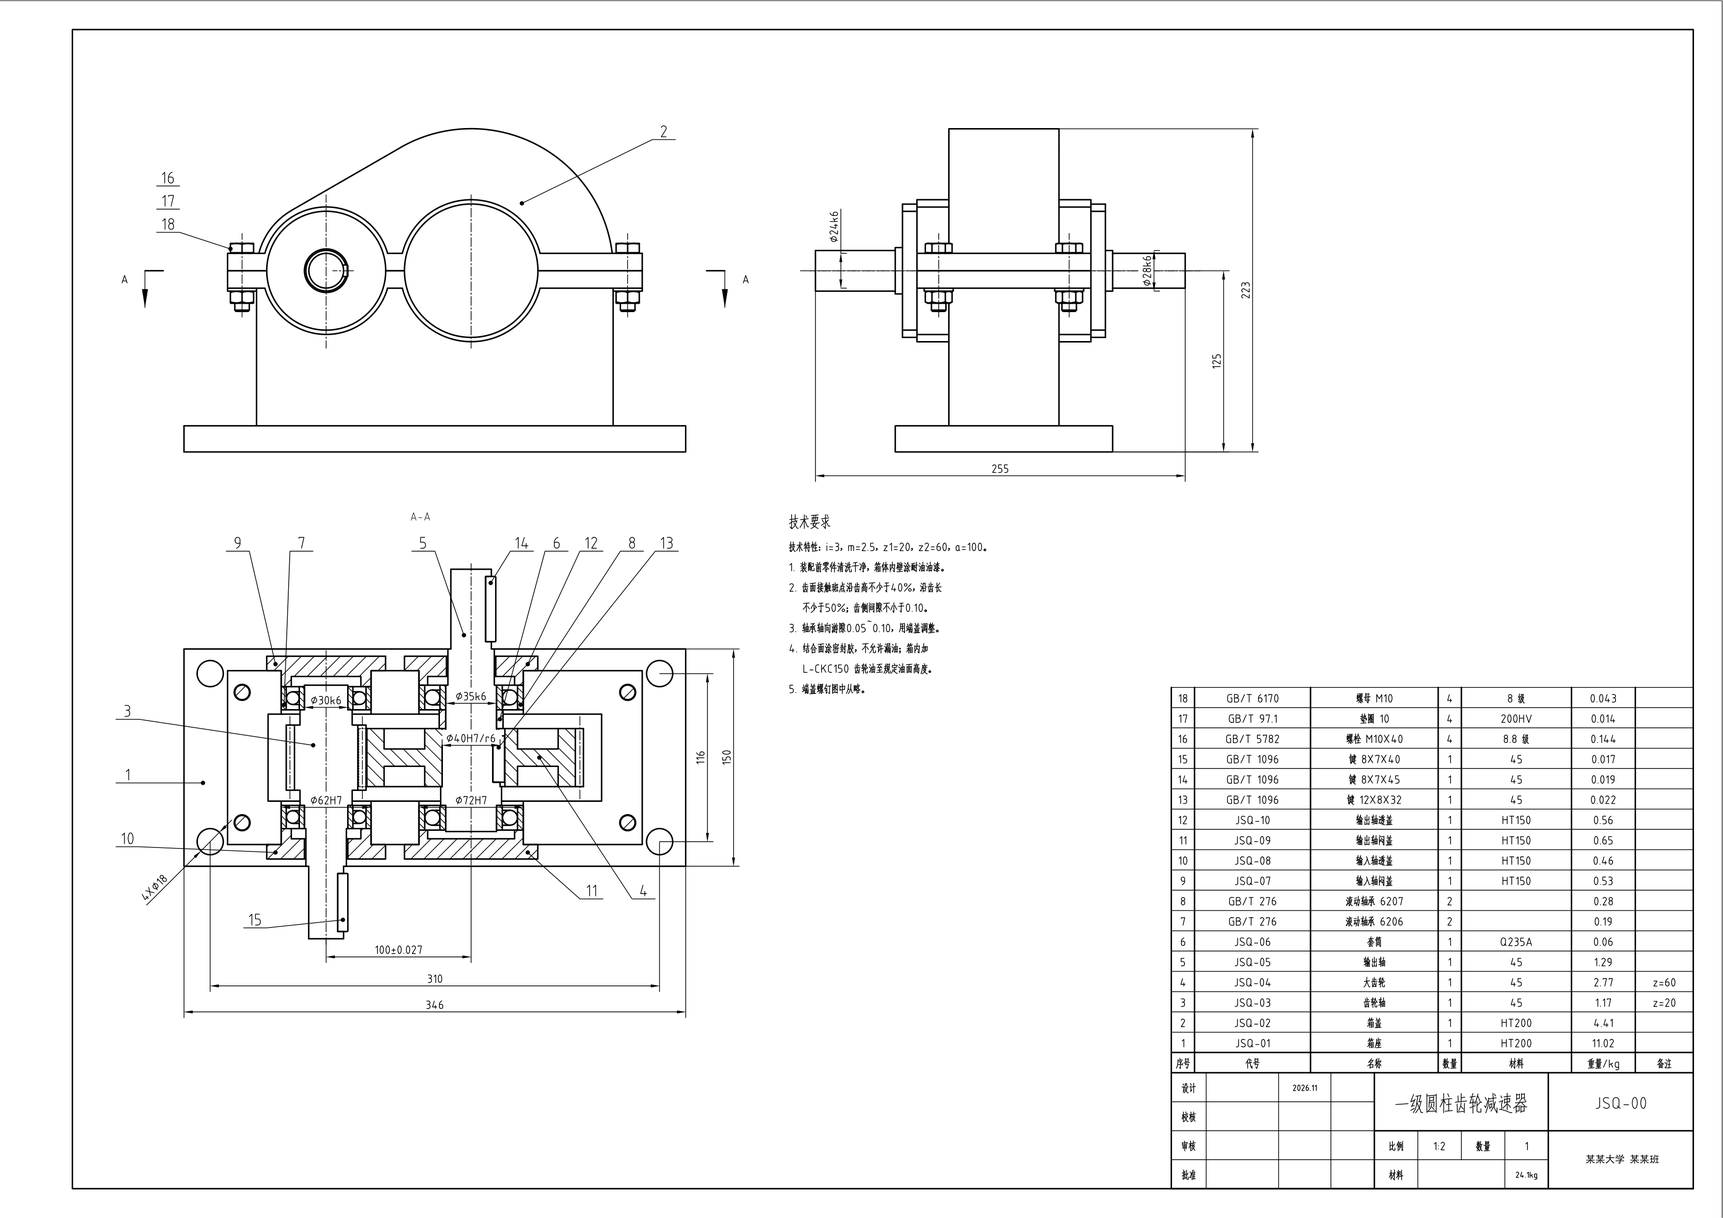
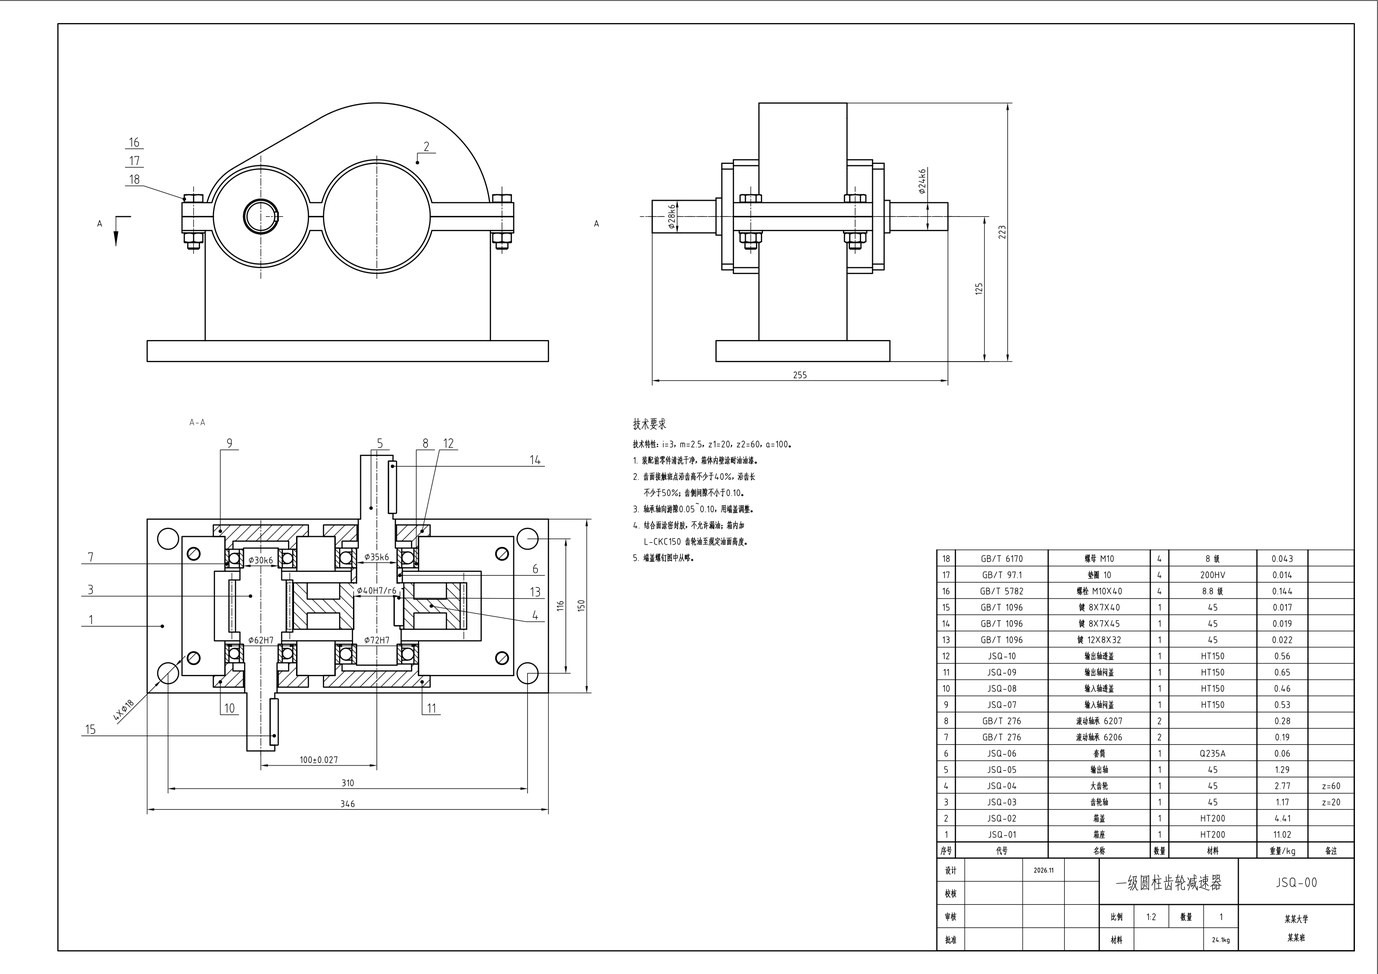
重写 README，成果图全部重新生成
所有图纸由范例脚本重跑出图；新增封面（三维模型 → 国标装配图）、三维模型一览，
以及公差查表与符号自动放置、装配图剖面线错开、规定画法、国标标准件、
自动检查五张新功能展示图。README 改为流程图 + 新能力 + 成果图 + 能力清单的结构。
驱动轮组件范例加上 stagger_hatches()；修正几个范例里输出目录写成元组的问题。

diff --git a/examples/wheel_assembly.py b/examples/wheel_assembly.py
@@ -6,7 +6,7 @@
 import sys, os; sys.path.insert(0, os.path.join(os.path.dirname(os.path.abspath(__file__)), "..", "scripts"))
 from sw2acad import Sheet, P
 
-D = os.path.dirname(os.path.abspath(__file__)), "out"
+D = os.path.join(os.path.dirname(os.path.abspath(__file__)), "out")
 VIEWS = [(60, 150, 180, 250), (200, 150, 345, 250)]
 with Sheet(D + r"\asm_sw.DWG", D + r"\asm_gb.dwg", views=VIEWS, view_scale=2) as s:
     s.frame()
@@ -18,6 +18,7 @@ with Sheet(D + r"\asm_sw.DWG", D + r"\asm_gb.dwg", views=VIEWS, view_scale=2) as
            ("SL-02-05", "驱动轮轮毂", 1, "45", "1.60", "调质")], origin=top)
     s.move_label("A-A", (120, 257))                # 剖视名称挪到序号上方
     s.unhatch((130, 200))                          # 轴是实心件，纵剖不画剖面线
+    print("剖面线错开:", s.stagger_hatches(same=[((98, 213), (109.6, 227.7), (109.6, 172.4))]))  # 相邻零件剖面线错开（GB/T 4457.5）；轮毂法兰被孔切开的两小块指定为同一零件
     s.line((80, 200), (160, 200))                  # 主视图轴线
     s.line((270, 160), (270, 240)); s.line((210, 200), (330, 200))   # 端视图中心线
     # 零件序号：一排水平对齐

diff --git a/examples/bracket_seat.py b/examples/bracket_seat.py
@@ -5,7 +5,7 @@
 import sys, os; sys.path.insert(0, os.path.join(os.path.dirname(os.path.abspath(__file__)), "..", "scripts"))
 from sw2acad import Sheet, P
 
-D = os.path.dirname(os.path.abspath(__file__)), "out"
+D = os.path.join(os.path.dirname(os.path.abspath(__file__)), "out")
 VIEWS = [(55, 140, 225, 232), (230, 115, 350, 250), (55, 25, 225, 140)]
 with Sheet(D + r"\bracket_sw.DWG", D + r"\bracket_gb.dwg", views=VIEWS) as s:
     s.frame()

diff --git a/examples/side_plate.py b/examples/side_plate.py
@@ -3,7 +3,7 @@
 import sys, os; sys.path.insert(0, os.path.join(os.path.dirname(os.path.abspath(__file__)), "..", "scripts"))
 from sw2acad import Sheet, P
 
-D = os.path.dirname(os.path.abspath(__file__)), "out"
+D = os.path.join(os.path.dirname(os.path.abspath(__file__)), "out")
 VIEWS = [(50, 140, 380, 240), (50, 100, 380, 140)]
 with Sheet(D + r"\plate_sw.DWG", D + r"\plate_gb.dwg", views=VIEWS, view_scale=2) as s:
     s.frame()

diff --git a/examples/bush_half.py b/examples/bush_half.py
@@ -8,7 +8,7 @@ import sys
 sys.path.insert(0, os.path.join(os.path.dirname(os.path.abspath(__file__)), "..", "scripts"))
 from sw2acad import Sheet, P
 
-D = os.path.dirname(os.path.abspath(__file__)), "out"
+D = os.path.join(os.path.dirname(os.path.abspath(__file__)), "out")
 VIEWS = [(61, 144, 179, 256), (61, 26, 179, 144)]
 with Sheet(D + r"\bush_half_sw.DWG", D + r"\bush_half_gb.dwg", views=VIEWS) as s:
     s.frame()

diff --git a/examples/bush_half_views.py b/examples/bush_half_views.py
@@ -8,7 +8,7 @@ import pythoncom
 from win32com.client import VARIANT
 
 mm = 0.001
-OUT = os.path.dirname(os.path.abspath(__file__)), "out"
+OUT = os.path.join(os.path.dirname(os.path.abspath(__file__)), "out")
 part = os.path.join(OUT, "bush_half.SLDPRT")
 sw = S.connect(); sw.CloseAllDocuments(True)
 p = S.new_part(sw)

diff --git a/README.md b/README.md
@@ -1,138 +1,188 @@
-# cad-drawing：让 Claude Code 出国标机械工程图
+<div align="center">
+
+# cad-drawing
+
+**从一句话到一张国标工程图。**
+
+让 [Claude Code](https://claude.com/claude-code) 通过 COM 直接驱动 SolidWorks 与 AutoCAD：<br>
+建模、装配、出视图、标注、规定画法、自检，一条流水线交付可打印的 GB 工程图（DWG + PDF）。
 
 [![License: CC BY-NC-SA 4.0](https://img.shields.io/badge/License-CC%20BY--NC--SA%204.0-lightgrey.svg)](LICENSE)
+![Platform](https://img.shields.io/badge/platform-Windows-0078D6)
+![SolidWorks](https://img.shields.io/badge/SolidWorks-2025-DA291C)
+![AutoCAD](https://img.shields.io/badge/AutoCAD-2024-E51050)
+![Python](https://img.shields.io/badge/Python-3.12-3776AB)
+
+</div>
+
+![从三维模型到国标装配图](images/00_封面.png)
 
 > ⚠ **禁止商业化使用。** 本仓库仅供个人学习、研究和非营利用途，未经作者书面许可，不得用于任何商业目的（包括但不限于售卖、付费代画图纸、集成进商业产品或付费服务）。详见文末[许可证](#许可证)。
 
-一个 [Claude Code](https://claude.com/claude-code) skill。AI 通过 COM 接口驱动本机的 SolidWorks 和 AutoCAD，从三维建模、装配一直做到符合国标的二维工程图（DWG + PDF）。全程不模拟键盘鼠标，跑的时候电脑可以照常用。
+---
 
-一句话说清楚它干什么：**你说“画一张减速器输出轴的零件图”，它建模、出视图、标尺寸公差粗糙度、填标题栏，自己检查压线和漏标，最后交一张能打印的国标图。**
+## 为什么是它
+
+机械制图里最费时间的，从来不是“画线”，而是那些**要查标准、要守规矩、要反复对**的活：偏差查表、粗糙度朝向、剖面线方向、明细栏、尺寸有没有漏、文字有没有压线……
+
+cad-drawing 把这些交给程序：
+
+- 🧭 **投影交给 SolidWorks**：剖视、断面、斜视图的可见线由几何内核计算，不会漏一根孔口端面线。
+- 📐 **国标交给规则**：GB/T 1800 公差、GB/T 131 粗糙度、GB/T 4457.5 剖面线、GB/T 4459 规定画法、GB/T 10609 标题栏，全部写进代码。
+- 🔍 **质量交给自检**：出图后自动栅格化查压线，拿三维模型反查尺寸是否标全，报 0 处才交图。
+- 🖐 **人不用碰鼠标**：全程 COM，不模拟键盘鼠标，跑的时候电脑照常用；改一个参数，重跑一分钟出新图。
 
 ## 工作流程
 
-1. **建模**：SolidWorks 建零件和装配；标准件（螺栓、螺母、垫圈、键、销、轴承、O 形圈……）按国标规格从 Toolbox 尺寸库生成并放进装配，自动跑干涉检查。
-2. **出视图**：SolidWorks 只负责投影——基本视图、全剖/半剖/局部剖/阶梯剖/旋转剖、移出断面、局部放大、斜视图，导出 DWG。可见线、剖面线、剖切符号都由 SW 算，不会漏线。
-3. **整理标注**：AutoCAD 里用 COM 按国标改图层线型、画图框标题栏，标尺寸、公差、粗糙度、形位公差、基准，装配图加明细栏和序号，补螺纹、齿轮等规定画法。
-4. **自动检查**：出图栅格化找文字压线和重叠；几何检查找尺寸线太挤、引线悬空；拿三维模型核对尺寸有没有标全、有没有封闭尺寸链。报 0 处再交。
+```mermaid
+flowchart LR
+    A["💬 自然语言需求"] --> B["SolidWorks<br/>建模 · 国标标准件 · 装配<br/>干涉检查"]
+    B --> C["SolidWorks<br/>投影：全剖 / 半剖 / 局部剖<br/>阶梯剖 / 旋转剖 / 斜视图"]
+    C -->|DWG| D["AutoCAD<br/>图层线型 · 尺寸公差 · 粗糙度<br/>形位公差 · 规定画法 · 明细栏"]
+    D --> E["自动检查<br/>压线 / 几何 / 尺寸完整性"]
+    E -->|0 处| F["📄 DWG + PDF"]
+    E -->|有问题| D
+```
+
+---
+
+## 新能力一览
+
+### 公差查表 · 符号自动放置
+
+只写 `s.fit("%%C35k6")`，偏差按 GB/T 1800 自动查出并叠写；键槽宽、槽深按 GB/T 1095 给出。粗糙度、形位公差、基准只需指明“标在哪个面上”，位置由算法在几十个候选里挑——避开文字、尺寸和剖面线，读向符合 GB/T 131。
+
+![公差查表与符号自动放置](images/10_公差查表与自动放置.png)
+
+### 装配图剖面线自动错开
+
+SolidWorks 导出的剖视里，所有零件都是同一方向、同一间距的斜线。`stagger_hatches()` 自动识别相邻零件并错开方向或间距，同一零件被孔、轴切开的几块保持一致（GB/T 4457.5）。
+
+![装配图剖面线错开](images/11_装配图剖面线错开.png)
+
+### 规定画法
+
+外螺纹、矩形花键、圆柱螺旋压缩弹簧、蜗杆蜗轮、直齿锥齿轮、圆柱齿轮（含装配图中的啮合画法）——按 GB/T 4459 系列直接生成，模型只需建到光轴或齿根。
+
+![规定画法](images/12_规定画法.png)
+
+### 国标标准件，直接取自 Toolbox 尺寸库
+
+不手抄尺寸表：直接读 SolidWorks Toolbox 的 GB 数据库（SQLite），按规格生成任意国标件，并写好代号、规格、材料、质量，明细栏一键取用。Toolbox 没有的毡圈单独建模。
+
+![国标标准件](images/13_国标标准件.png)
+
+### 出图即自检
+
+`check()` 把文字和尺寸临时染色出一张校核图，栅格化后逐字找压线、重叠，再查尺寸线间距、悬空引线、重复标注；`audit_dims()` 从三维模型读出每个平面和圆柱面，反查尺寸是否连通、有无封闭尺寸链、哪个直径漏标。下图右侧是这张图的真实运行输出。
+
+![自动检查](images/14_自动检查.png)
+
+---
 
 ## 成果图
 
-一级圆柱齿轮减速器装配图（A2 1:2）。标准件按规格生成，明细栏里的代号、规格、质量自动填写：
+下面所有图纸都由仓库里的范例脚本**一键重跑生成**，未经手工修改（标题栏单位名称为占位字）。
+
+### 一级圆柱齿轮减速器 · 成套图纸
+
+装配图（A2 1:2）：三视图 + A-A 剖视，标准件按规格生成，明细栏里的代号、规格、质量自动填写，序号自动排布。
 
 ![减速器装配图](images/01_减速器装配图.png)
 
-| 输出轴（移出断面、自动分排尺寸、圆跳动） | 大齿轮（轮齿规定画法、参数表） |
+| 输出轴 · 移出断面、自动分排尺寸、圆跳动 | 大齿轮 · 轮齿规定画法、参数表 |
 |---|---|
 | ![输出轴](images/02_输出轴零件图.png) | ![大齿轮](images/03_大齿轮零件图.png) |
+| **箱座** · 半圆轴承孔、平面度、尺寸审查 0 处 | **箱盖** · 局部剖、自动放置粗糙度与形位公差 |
+| ![箱座](images/04_箱座零件图.png) | ![箱盖](images/05_箱盖零件图.png) |
 
-| 铸件轴承座（半剖、局部剖、局部放大、螺纹规定画法） | 旋转剖（拼接法，斜臂按真长展开）+ 局部斜视图转正 |
+### 复杂表达方法
+
+| 铸件轴承座 · 半剖、局部剖、局部放大 4:1、螺纹规定画法 | 旋转剖（拼接法，斜臂按真长展开）+ 局部斜视图转正 |
 |---|---|
-| ![轴承座](images/04_轴承座零件图.png) | ![旋转剖与斜视图](images/05_旋转剖与斜视图.png) |
+| ![轴承座](images/06_轴承座零件图.png) | ![旋转剖与斜视图](images/07_旋转剖与斜视图.png) |
 
-实心轮毂的旋转剖（剖面线按轴线裁开再拼）：
+实心轮毂的旋转剖——剖面线按轴线裁开再拼合，两半连续无缝：
 
-![实心轮毂旋转剖](images/06_实心轮毂旋转剖.png)
+![实心轮毂旋转剖](images/08_实心轮毂旋转剖.png)
 
-图中标题栏的单位名称换成了占位字。
+### 对应的三维模型
 
-## 能力一览
+![三维模型](images/09_三维模型.png)
 
-### 视图与剖视
-- 基本视图、投影视图、第一角画法三视图布置。
-- 全剖、**半剖**、**局部剖**（波浪线）、**阶梯剖**、**旋转剖**（SW 的 API 出不了国标旋转剖，这里用两次全剖拼接，斜段按真长展开；实心轮毂也行）。
-- 移出断面、局部放大图（罗马数字 + 比例）、斜视图、局部斜视图及转正配置（字母 + 旋转符号）。
-- 剖切面过对称面时按国标省略剖切符号；肋板纵剖不画剖面线；过渡线改细实线。
+---
 
-### 标注
-- 线性、直径、半径、角度尺寸；半剖里只画一半的对称尺寸；孔旁注（沉孔、锪平、深度符号）；倒角。
-- **公差查表**（GB/T 1800）：写 `Φ35k6` 就自动叠写 `+0.018/+0.002`，不手抄偏差；GB/T 1095 键槽尺寸、GB/T 1804 一般公差；出图时再按表复核一遍。
-- 表面粗糙度（GB/T 131-2006，含读向规则）、基准、形位公差框格。
-- 标题栏（GB/T 10609.1 标准版 / 学生简化版）、明细栏（GB/T 10609.2）、零件序号、紧固件组公共指引线、技术要求、齿轮参数表。
+## 能力清单
 
-### 自动排版
-- **尺寸自动分排**：同一方向的一组尺寸按跨度从小到大分排，链式尺寸同排，小在里大在外。
-- **符号自动放置**：粗糙度、形位公差、基准、装配图序号只给“标在哪个要素上”，位置自动挑——避开文字、尺寸、剖面线，序号排成一排、引线不交叉。
-- 尺寸数字下的点画线自动断开。
+| 领域 | 能做什么 |
+|---|---|
+| **视图** | 基本视图、投影视图；全剖、半剖、局部剖（波浪线）、阶梯剖、**旋转剖**（SW API 做不出国标旋转剖，用两次全剖拼接实现）；移出断面、局部放大图、斜视图、局部斜视图与转正配置；剖切符号按国标省略；肋板纵剖不画剖面线；过渡线 |
+| **标注** | 线性、直径、半径、角度；半剖对称尺寸；孔旁注（沉孔、锪平、深度）；倒角；**公差查表**（GB/T 1800 / 1095 / 1804）；粗糙度（GB/T 131-2006）；基准与形位公差；GB/T 10609.1 标题栏、明细栏、零件序号、紧固件组指引线、技术要求、齿轮参数表 |
+| **排版** | 尺寸自动分排（小在里、大在外，链式同排）；粗糙度 / 形位公差 / 基准 / 序号**自动放置**；尺寸数字下的点画线自动断开 |
+| **规定画法** | 内外螺纹、矩形花键、压缩弹簧、圆柱齿轮（单个 / 啮合 / 装配图不剖齿轮）、锥齿轮、蜗杆蜗轮；装配图剖面线**相邻错开**、按材料换剖面符号、窄条涂黑 |
+| **建模与装配** | SolidWorks 建模小工具（偏移起点切键槽、自动校验切除方向）；Toolbox GB 库**任意国标件**生成与放置；干涉检查 |
+| **质量** | `check()` 压线 / 重叠 / 几何检查；`audit_dims()` 尺寸完整性审查；公差值按表复核 |
+| **工程化** | 参数化出图（改参数重跑即出新图）；COM 忙时自动重试；SolidWorks 内存超限自动重开；AutoCAD 意外退出自动重启；`env_check.py` 换机自检 |
 
-### 规定画法
-- 内外螺纹（GB/T 4459.1）、矩形花键（GB/T 4459.3）、圆柱螺旋压缩弹簧（GB/T 4459.4）。
-- 圆柱齿轮单个和啮合（GB/T 4459.2），装配图里不剖的齿轮改齿顶线/分度线；直齿锥齿轮；蜗杆、蜗轮。
-- **装配图剖面线**（GB/T 4457.5）：相邻零件自动错开方向或间距，同一零件各块保持一致（含局部放大图）；非金属换网格、窄条涂黑；轴、键、销等实心件不剖。
+---
 
-### 标准件
-- 直接读 SolidWorks Toolbox 的 GB 尺寸库（SQLite），Toolbox 里有的国标件都能按规格生成（几百种），尺寸来自官方库而不是手抄；Toolbox 没有的毡圈单独建。
-- 生成时写好代号、名称、规格、材料、质量等属性，明细栏直接取用。
+## 快速开始
 
-### 质量检查
-- `check()`：文字压线/重叠、平行尺寸线太挤、引线悬空、同值尺寸重复，报图纸坐标。
-- `audit_dims()`：从三维模型读出平面和圆柱面，核对每个方向的尺寸是否连通（缺定位尺寸）、有没有封闭尺寸链、哪个圆柱面没标直径。
+**环境**：Windows · SolidWorks 2025（含 Toolbox、GB 模板）· AutoCAD 2024（含 `gbenor.shx` / `gbcbig.shx`）· Python 3.12。其他版本 COM 接口大体相同，但未验证。
 
-### 参数化与稳定性
-- 所有尺寸放在参数文件里，标注点用模型坐标写，改参数重跑三步就出新图（`examples/zcz/`）。
-- COM 忙时自动重试；SolidWorks 内存超限自动退出重开；AutoCAD 意外退出后自动重启续跑。
-- `env_check.py` 换电脑后逐项自检软件路径、模板、Toolbox、字体、打印机和 Python 包，告诉你该改 `config.json` 哪一项。
+```bash
+pip install -r requirements.txt
+python scripts/env_check.py        # 逐项自检；软件路径、标题栏单位等改 scripts/config.json
+```
 
-## 环境要求
+**作为 Claude Code skill 使用**：把整个目录放到 `~/.claude/skills/cad-drawing/`，然后直接说——
 
-- Windows，SolidWorks 2025（带 Toolbox、GB 模板），AutoCAD 2024（带 `gbenor.shx` / `gbcbig.shx`）。其他版本的 COM 接口大体相同，但没有验证过。
-- Python 3.12：`pip install -r requirements.txt`。
-- 软件路径和标题栏默认值（单位、班级、设计人）都在 `scripts/config.json`；装好后先跑 `python scripts/env_check.py`。
+> “画一张减速器输出轴的零件图，Φ35k6 两处，键槽 10N9。”
+> “给这个装配体出 A2 装配图，带明细栏。”
 
-## 用法
-
-把整个目录放到 `~/.claude/skills/cad-drawing/`，在 Claude Code 里说“画一张 XX 的零件图”“出这个装配体的装配图”之类的话就会触发。
-
-也可以直接跑范例：
+**直接跑范例**：
 
 ```bash
 cd examples/reducer
 python build_parts.py && python build_asm.py && python views.py && python reducer_gb.py
 ```
 
-| 范例 | 演示内容 |
+| 范例 | 演示 |
 |---|---|
-| `examples/reducer/` | 一级圆柱齿轮减速器成套图纸：装配图 + 输出轴、大齿轮、箱座、箱盖零件图（`输出轴_auto.py` 是自动放符号 + 尺寸审查的标准写法） |
-| `examples/zcz/` | 铸件轴承座，参数化全流程，半剖 + 局部剖 + 局部放大 |
+| `examples/reducer/` | 减速器成套图纸：装配图 + 输出轴、大齿轮、箱座、箱盖零件图（`输出轴_auto.py` 是自动放置 + 尺寸审查的标准写法） |
+| `examples/zcz/` | 铸件轴承座，参数化全流程 |
 | `examples/rot_oblique/` | 旋转剖拼接、局部斜视图转正 |
-| `examples/bush_half*.py` | 半剖 + 局部剖 |
-| `examples/conv_demo.py` | 外螺纹、花键、弹簧、锥齿轮、蜗杆蜗轮规定画法样张 |
-| `examples/std_demo.py` | 各类国标标准件生成 |
-| 其余 | 回转体、板件 1:2、铸件三视图、简单装配图 |
+| `examples/wheel_assembly.py` | 小装配图：明细栏、序号、配合尺寸、剖面线错开 |
+| `examples/conv_demo.py` | 规定画法样张 |
+| `examples/std_demo.py` | 国标标准件生成 |
+| 其余 | 回转体、板件 1:2、铸件三视图、半剖 + 局部剖 |
 
-详细说明、`Sheet` 的所有方法和几十条 COM 踩坑记录见 [SKILL.md](SKILL.md)。
+完整 API（`Sheet` 的全部方法）与几十条 COM 踩坑记录见 [SKILL.md](SKILL.md)。
 
 ## 目录
 
 ```
 SKILL.md            skill 说明（给 Claude 看的，也是最全的文档）
-requirements.txt
 scripts/
-  sw_views.py       SolidWorks 出视图
-  sw2acad.py        AutoCAD 整理标注（Sheet 类）+ 自动检查
-  acad_common.py    AutoCAD 公共部分：COM 重试、图层/图幅、标注样式、PDF 打印配置
-  conv.py           规定画法：外螺纹、花键、弹簧、锥齿轮、蜗杆蜗轮
-  gb_hatch.py       装配图剖面线：相邻错开、按材料换符号
-  placer.py         粗糙度/形位公差/基准/序号自动放置
-  audit.py          尺寸完整性审查
-  gbtol.py          GB/T 1800 公差、GB/T 1095 键槽、GB/T 1804 一般公差查表
-  sw_part.py        SolidWorks 建模小工具
-  sw_std.py         国标标准件生成与放置
-  toolbox_db.py     读 Toolbox GB 尺寸库
-  sw_mem.py         SolidWorks 内存守护
-  com_filter.py     COM 忙时自动重试
-  env_check.py      环境自检
+  sw_views.py       SolidWorks 出视图          sw2acad.py     AutoCAD 整理标注（Sheet）+ 自检
+  sw_part.py        SolidWorks 建模            acad_common.py AutoCAD 公共部分
+  sw_std.py         国标标准件生成与放置        toolbox_db.py  读 Toolbox GB 尺寸库
+  gbtol.py          公差 / 键槽 / 一般公差查表  conv.py        规定画法
+  gb_hatch.py       装配图剖面线               placer.py      符号自动放置
+  audit.py          尺寸完整性审查             sw_mem.py      SolidWorks 内存守护
+  com_filter.py     COM 忙时重试               env_check.py   环境自检
   config.json       软件路径 + 标题栏默认值
-examples/           各类图的完整脚本
-images/             上面的成果图
+examples/           全部范例脚本
+images/             本页成果图
 ```
 
 ## 局限
 
-- 代码和文档是在 Claude Code 里用 AI 辅助写的，只在作者自己的电脑上验证过，出的图**没有经过老师或专业审图人审核**。
-- 自动检查只管排版和尺寸连通性；该不该剖、视图选得好不好、尺寸基准合不合理、工艺上该不该标，还得人看。
-- 自动放置只懂“别压东西”，不懂习惯摆法，复杂图一般还要看 1~2 轮渲染图微调。
-- 零件形状大改（比如加一个凸台）时，参数化脚本里的标注也要跟着改。
-- SolidWorks 和 AutoCAD 的 COM 接口有不少怪问题（已记录在 SKILL.md），换版本可能遇到新的。
+- 代码与文档在 Claude Code 中以 AI 辅助方式编写，只在作者的电脑上验证过；出的图**未经老师或专业审图人审核**。
+- 自检覆盖排版与尺寸连通性；该不该剖、视图选得好不好、尺寸基准与工艺合理性，仍需要人来判断。
+- 自动放置只懂“不压东西”，不懂习惯摆法，复杂图通常还要看一两轮渲染图微调。
+- 零件形状大改（如新增凸台）时，参数化脚本里的标注要同步修改。
+- SolidWorks / AutoCAD 的 COM 接口有不少怪问题（已记录在 SKILL.md），换版本可能遇到新的。
 
 ## 许可证
 
